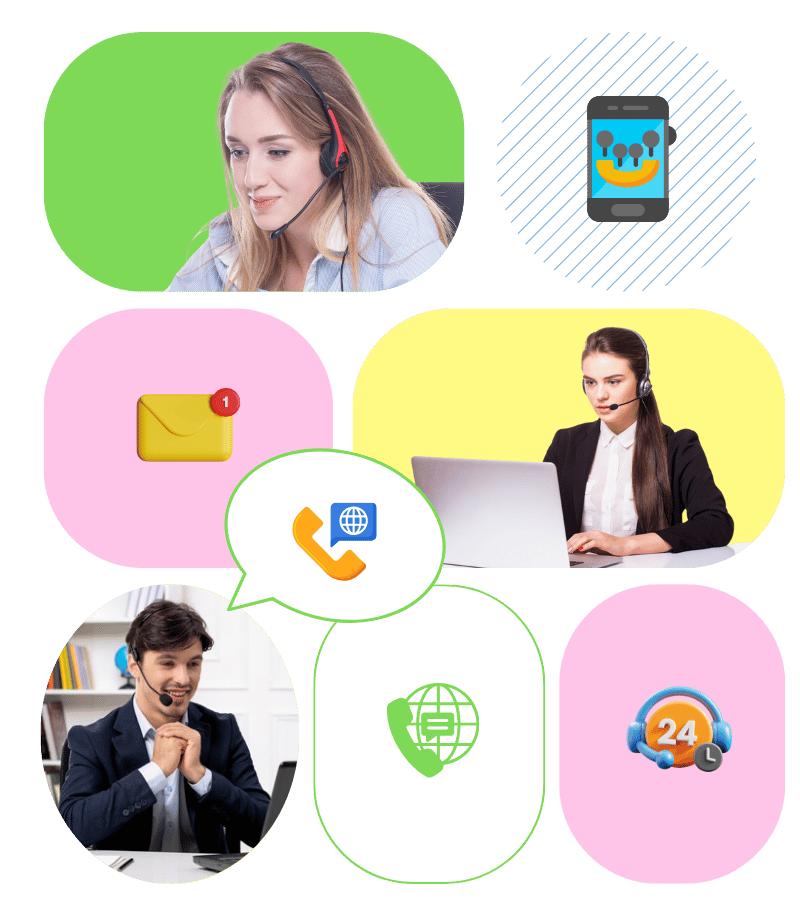
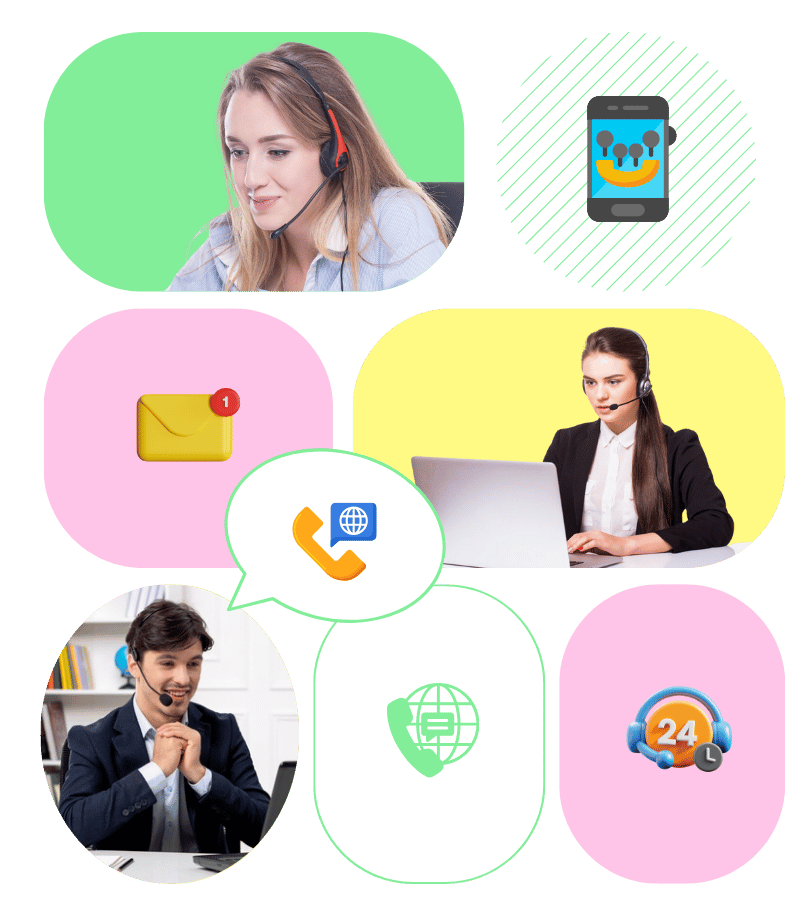
Hero Color change

diff --git a/styles/hero.css b/styles/hero.css
@@ -40,9 +40,9 @@
 
   
   .hero-box {
-    background-color: #bbffca;
+    background-color: #83ee9a;
     border-radius: 8px;
-    padding: 20px;
+    padding: 40px 20px;
     position: relative;
     display: flex;
     flex-direction: column;
@@ -80,6 +80,7 @@
     font-size: 16px;
     color: #777;
   }
+
   
   .hero-box-footer span {
     display: flex; /* Allows children to align in a row */
@@ -185,7 +186,7 @@
 
 .button-86 {
   font-family: "Poppins", sans-serif;
-  margin: 20px 0px;
+  margin: 10px 0px;
   padding: 10px 0px;
   text-wrap: nowrap;
   width: 30%;

diff --git a/styles/App.module.css b/styles/App.module.css
@@ -611,7 +611,7 @@ margin: 20px 0px 20px 0px;
   margin-right: 1rem;
   font-family: 'Poppins', sans-serif;
   padding: 10px 20px;
-  background-color: #98FFC5;
+  background-color: #83ee9a;
 
 }
 
